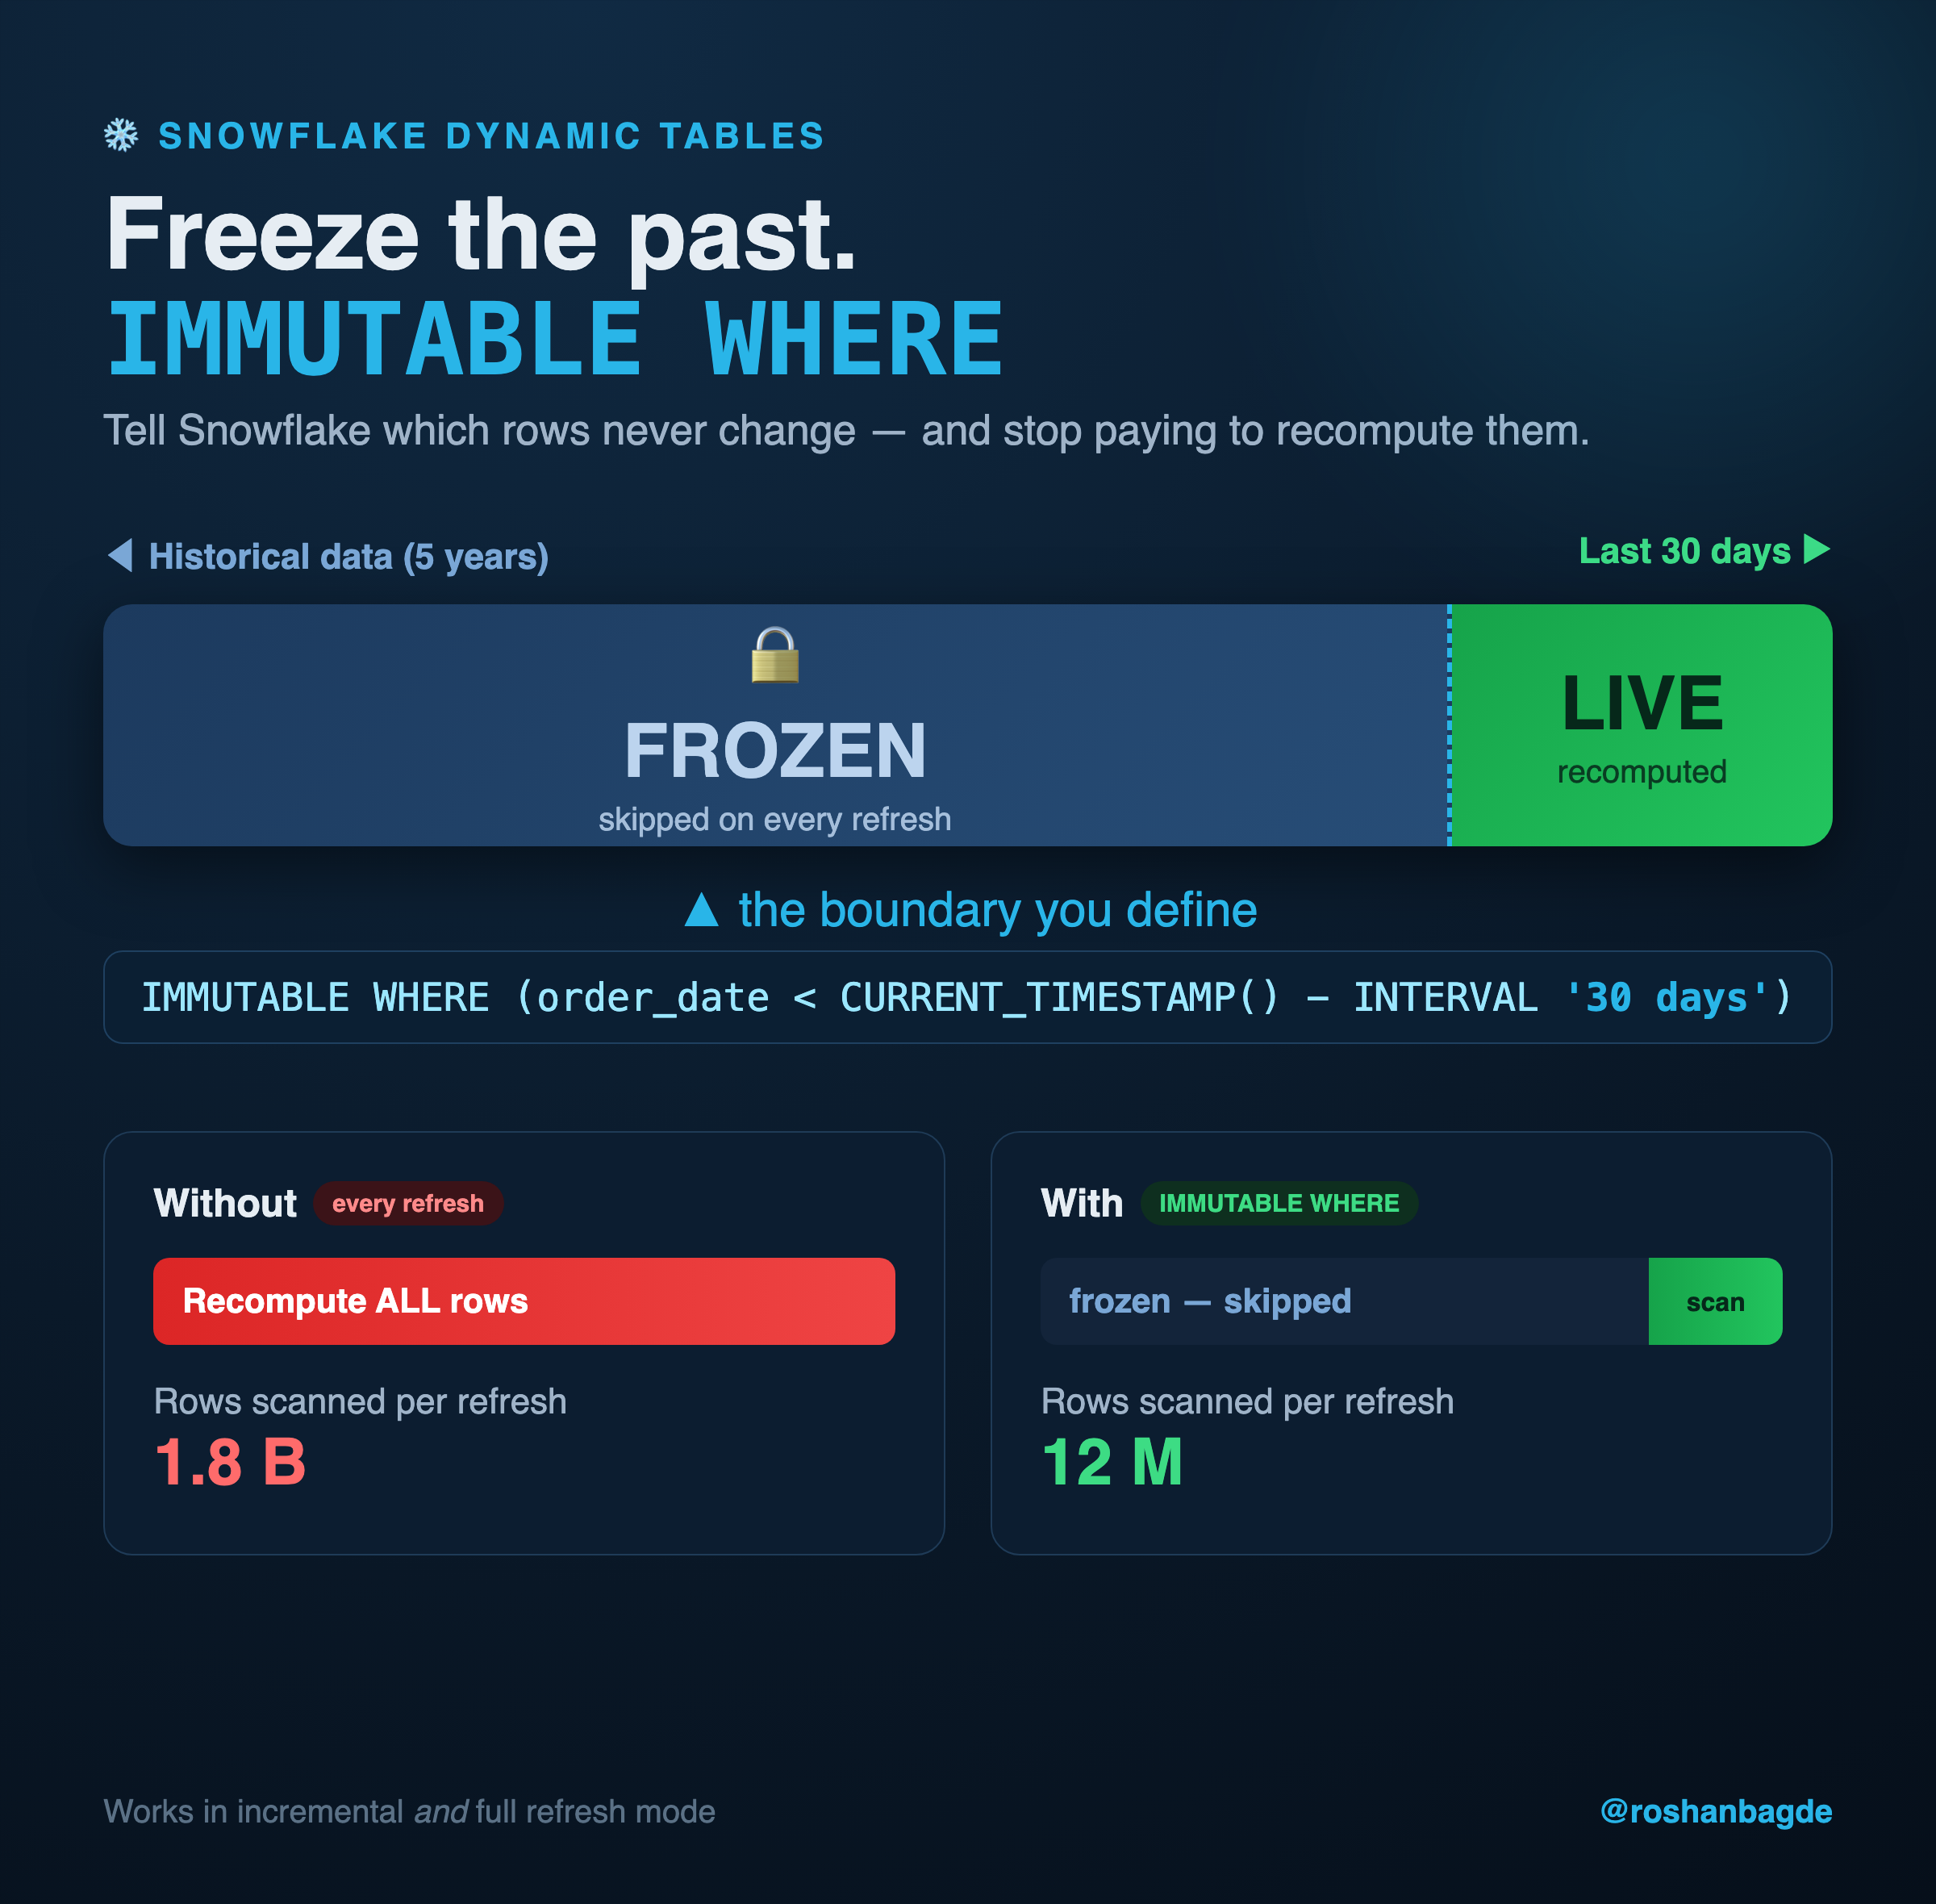
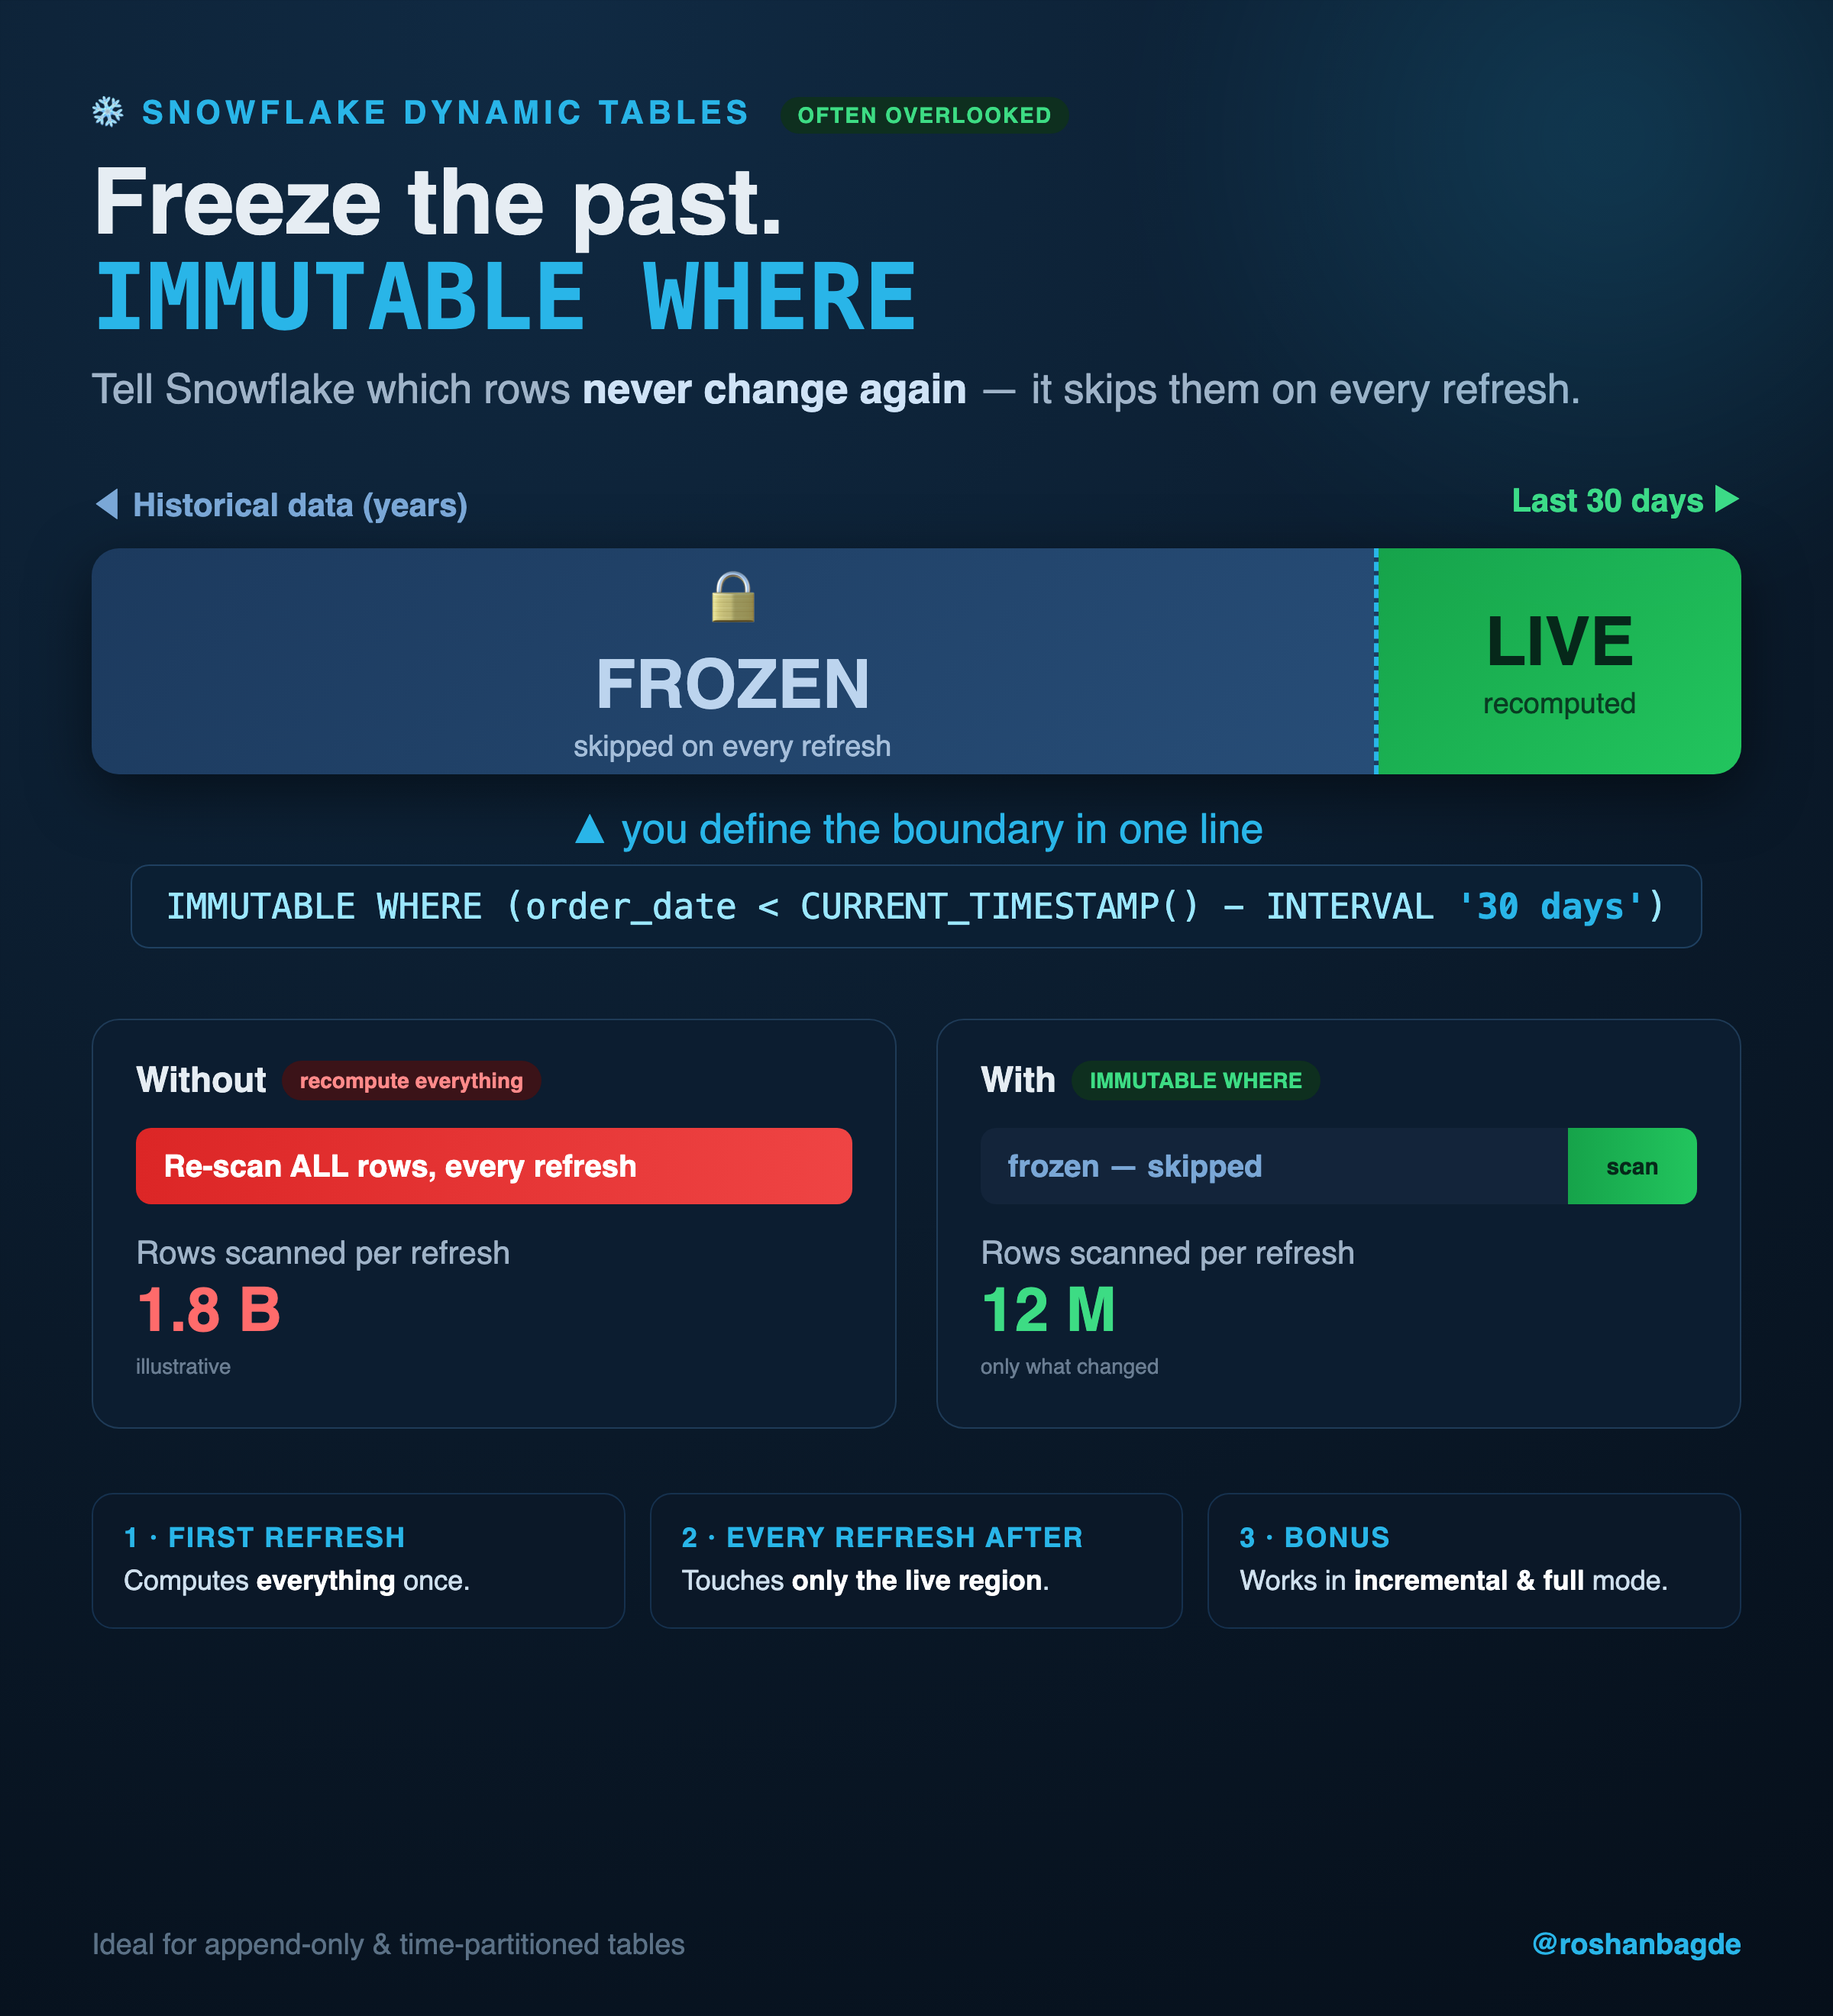
Dynamic table
Dynamic table

diff --git a/snowflake/dynamic-tables/assets/immutability_infographic.html b/snowflake/dynamic-tables/assets/immutability_infographic.html
@@ -5,71 +5,81 @@
 <style>
   * { margin:0; padding:0; box-sizing:border-box; }
   body {
-    width:1200px; height:1180px;
+    width:1200px; height:1320px;
     font-family:-apple-system,'Segoe UI',Helvetica,Arial,sans-serif;
     background:radial-gradient(circle at 30% 0%, #102a43 0%, #0a1929 60%, #060f1a 100%);
-    color:#e6edf3; padding:70px 64px; position:relative; overflow:hidden;
+    color:#e6edf3; padding:60px 60px 50px; position:relative; overflow:hidden;
   }
-  .glow { position:absolute; width:600px; height:600px; border-radius:50%;
+  .glow { position:absolute; width:620px; height:620px; border-radius:50%;
           background:radial-gradient(circle,#29b5e8 0%,transparent 70%);
-          opacity:.18; top:-200px; right:-150px; filter:blur(30px); }
-  .eyebrow { color:#29b5e8; font-weight:700; letter-spacing:3px; font-size:22px; text-transform:uppercase; }
-  h1 { font-size:62px; line-height:1.05; margin:14px 0 8px; font-weight:800; }
+          opacity:.18; top:-220px; right:-160px; filter:blur(30px); }
+  .eyebrow { color:#29b5e8; font-weight:700; letter-spacing:3px; font-size:21px; text-transform:uppercase; }
+  .eyebrow .new { background:#0e2f1f; color:#3ddc84; font-size:14px; padding:4px 11px;
+                  border-radius:20px; margin-left:10px; letter-spacing:1px; vertical-align:middle; }
+  h1 { font-size:60px; line-height:1.04; margin:14px 0 10px; font-weight:800; }
   h1 .code { color:#29b5e8; font-family:'SF Mono',Menlo,monospace; }
-  .sub { font-size:26px; color:#9fb3c8; margin-bottom:46px; }
+  .sub { font-size:27px; color:#9fb3c8; margin-bottom:42px; line-height:1.35; }
+  .sub b { color:#cfe3f7; }
 
-  .label-row { display:flex; justify-content:space-between; margin-bottom:14px; font-size:22px; font-weight:700; }
+  .label-row { display:flex; justify-content:space-between; margin-bottom:13px; font-size:21px; font-weight:700; }
   .label-row .frozen { color:#7aa7d6; }
   .label-row .mutable { color:#3ddc84; }
 
-  .timeline { display:flex; height:150px; border-radius:18px; overflow:hidden; box-shadow:0 12px 40px rgba(0,0,0,.5); }
-  .seg { display:flex; flex-direction:column; align-items:center; justify-content:center; position:relative; }
-  .seg .big { font-size:46px; font-weight:800; }
-  .seg .small { font-size:20px; opacity:.85; margin-top:4px; }
+  .timeline { display:flex; height:148px; border-radius:18px; overflow:hidden; box-shadow:0 12px 40px rgba(0,0,0,.5); }
+  .seg { display:flex; flex-direction:column; align-items:center; justify-content:center; }
+  .seg .big { font-size:44px; font-weight:800; }
+  .seg .small { font-size:19px; opacity:.85; margin-top:4px; }
   .frozen-seg { flex:0 0 78%; background:linear-gradient(135deg,#1c3a5e,#274d77);
                 color:#bcd4ee; border-right:3px dashed #29b5e8; }
   .mutable-seg { flex:1; background:linear-gradient(135deg,#16a34a,#22c55e); color:#06281a; }
-  .lock { font-size:40px; margin-bottom:6px; }
+  .lock { font-size:38px; margin-bottom:6px; }
 
-  .predicate { text-align:center; margin:22px 0 4px; }
-  .predicate .arrow { color:#29b5e8; font-size:30px; }
+  .predicate { text-align:center; margin:20px 0 2px; }
+  .predicate .arrow { color:#29b5e8; font-size:27px; }
   .predicate code { display:inline-block; margin-top:8px; background:#0b1f33; border:1px solid #1f4060;
-       padding:14px 22px; border-radius:12px; font-family:'SF Mono',Menlo,monospace;
-       font-size:24px; color:#9be7ff; }
+       padding:13px 22px; border-radius:12px; font-family:'SF Mono',Menlo,monospace;
+       font-size:23px; color:#9be7ff; }
   .predicate code b { color:#29b5e8; }
 
-  .compare { display:flex; gap:28px; margin-top:54px; }
-  .card { flex:1; border-radius:18px; padding:30px 30px 34px; border:1px solid #1f3b57; background:#0c1d30; }
-  .card h3 { font-size:24px; margin-bottom:20px; display:flex; align-items:center; gap:10px; }
-  .card .tag { font-size:15px; font-weight:700; padding:5px 12px; border-radius:20px; }
+  .compare { display:flex; gap:26px; margin-top:46px; }
+  .card { flex:1; border-radius:18px; padding:26px 28px 30px; border:1px solid #1f3b57; background:#0c1d30; }
+  .card h3 { font-size:23px; margin-bottom:18px; display:flex; align-items:center; gap:10px; }
+  .card .tag { font-size:14px; font-weight:700; padding:5px 12px; border-radius:20px; }
   .without .tag { background:#3b1318; color:#ff8a8a; }
   .with .tag { background:#0e2f1f; color:#3ddc84; }
-  .bar { height:54px; border-radius:10px; display:flex; align-items:center; padding-left:18px;
-         font-weight:700; font-size:21px; margin-top:8px; }
+  .bar { height:50px; border-radius:10px; display:flex; align-items:center; padding-left:18px;
+         font-weight:700; font-size:20px; }
   .bar-full { background:linear-gradient(90deg,#dc2626,#ef4444); color:#fff; }
   .bar-slice { background:#13243a; color:#7aa7d6; position:relative; overflow:hidden; }
   .bar-slice .hot { position:absolute; right:0; top:0; bottom:0; width:18%;
         background:linear-gradient(90deg,#16a34a,#22c55e); display:flex; align-items:center;
-        justify-content:center; color:#06281a; font-size:16px; }
-  .metric { margin-top:22px; font-size:22px; color:#9fb3c8; }
+        justify-content:center; color:#06281a; font-size:15px; }
+  .metric { margin-top:20px; font-size:21px; color:#9fb3c8; }
   .metric b { font-size:40px; display:block; color:#fff; margin-top:2px; }
   .with .metric b { color:#3ddc84; }
   .without .metric b { color:#ff6b6b; }
+  .metric .note { font-size:14px; opacity:.65; }
 
-  .footer { position:absolute; bottom:46px; left:64px; right:64px; display:flex;
-            justify-content:space-between; align-items:center; font-size:20px; color:#5b7186; }
+  .how { display:flex; gap:16px; margin-top:42px; }
+  .step { flex:1; background:#0b1828; border:1px solid #16314e; border-radius:14px; padding:18px 20px; }
+  .step .n { color:#29b5e8; font-weight:800; font-size:18px; letter-spacing:1px; }
+  .step .t { font-size:18px; margin-top:6px; line-height:1.35; color:#cfe0ee; }
+  .step .t b { color:#fff; }
+
+  .footer { position:absolute; bottom:36px; left:60px; right:60px; display:flex;
+            justify-content:space-between; align-items:center; font-size:19px; color:#5b7186; }
   .footer .brand { color:#29b5e8; font-weight:700; }
 </style>
 </head>
 <body>
   <div class="glow"></div>
 
-  <div class="eyebrow">❄️ Snowflake Dynamic Tables</div>
+  <div class="eyebrow">❄️ Snowflake Dynamic Tables <span class="new">OFTEN OVERLOOKED</span></div>
   <h1>Freeze the past.<br><span class="code">IMMUTABLE WHERE</span></h1>
-  <div class="sub">Tell Snowflake which rows never change — and stop paying to recompute them.</div>
+  <div class="sub">Tell Snowflake which rows <b>never change again</b> — it skips them on every refresh.</div>
 
   <div class="label-row">
-    <span class="frozen">◀ Historical data (5 years)</span>
+    <span class="frozen">◀ Historical data (years)</span>
     <span class="mutable">Last 30 days ▶</span>
   </div>
   <div class="timeline">
@@ -85,25 +95,34 @@
   </div>
 
   <div class="predicate">
-    <div class="arrow">▲ the boundary you define</div>
+    <div class="arrow">▲ you define the boundary in one line</div>
     <code>IMMUTABLE WHERE (order_date &lt; CURRENT_TIMESTAMP() - INTERVAL <b>'30 days'</b>)</code>
   </div>
 
   <div class="compare">
     <div class="card without">
-      <h3>Without <span class="tag">every refresh</span></h3>
-      <div class="bar bar-full">Recompute ALL rows</div>
-      <div class="metric">Rows scanned per refresh<b>1.8 B</b></div>
+      <h3>Without <span class="tag">recompute everything</span></h3>
+      <div class="bar bar-full">Re-scan ALL rows, every refresh</div>
+      <div class="metric">Rows scanned per refresh<b>1.8 B</b><span class="note">illustrative</span></div>
     </div>
     <div class="card with">
       <h3>With <span class="tag">IMMUTABLE WHERE</span></h3>
       <div class="bar bar-slice">frozen — skipped<div class="hot">scan</div></div>
-      <div class="metric">Rows scanned per refresh<b>12 M</b></div>
+      <div class="metric">Rows scanned per refresh<b>12 M</b><span class="note">only what changed</span></div>
     </div>
   </div>
 
+  <div class="how">
+    <div class="step"><div class="n">1 · FIRST REFRESH</div>
+      <div class="t">Computes <b>everything</b> once.</div></div>
+    <div class="step"><div class="n">2 · EVERY REFRESH AFTER</div>
+      <div class="t">Touches <b>only the live region</b>.</div></div>
+    <div class="step"><div class="n">3 · BONUS</div>
+      <div class="t">Works in <b>incremental & full</b> mode.</div></div>
+  </div>
+
   <div class="footer">
-    <span>Works in incremental <i>and</i> full refresh mode</span>
+    <span>Ideal for append-only & time-partitioned tables</span>
     <span class="brand">@roshanbagde</span>
   </div>
 </body>